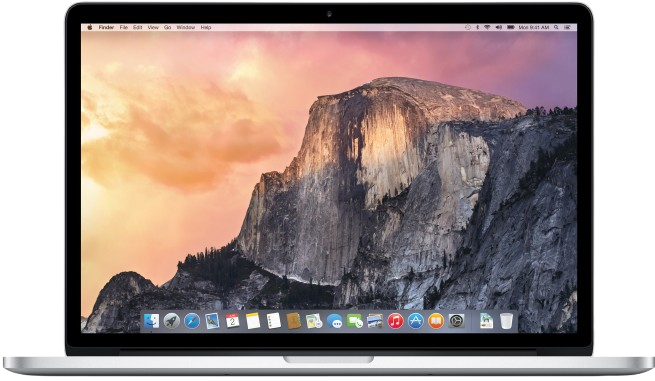
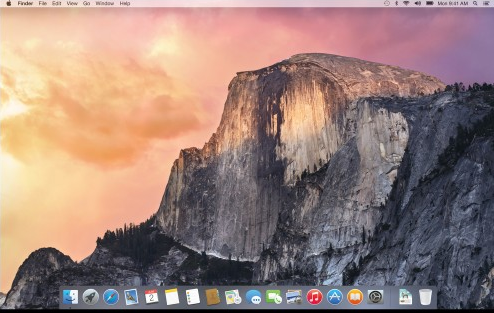
atualizando tela inicial

diff --git a/Inicio.html b/Inicio.html
@@ -9,6 +9,8 @@
     <link
         href="https://fonts.googleapis.com/css2?family=Inter:ital,opsz,wght@0,14..32,100..900;1,14..32,100..900&display=swap"
         rel="stylesheet">
+    <link rel="stylesheet" href="https://cdnjs.cloudflare.com/ajax/libs/font-awesome/6.0.0-beta3/css/all.min.css">
+
     <link rel="stylesheet" href="Inicio.css">
 
     <title>Inicio</title>
@@ -151,66 +153,69 @@
                         <th>Linux</th>
                     </tr>
                 </thead>
-         <tbody>
-                <tr>
-                    <td class="coluna-negrito">Desenvolvedor</td>
-                    <td>Apple</td>
-                    <td>Microsoft</td>
-                    <td>Comunidade Open Source</td>
-                </tr>
-                <tr>
-                    <td class="coluna-negrito">Licenciamento</td>
-                    <td>Proprietário</td>
-                    <td>Proprietário</td>
-                    <td>Open Source</td>
-                </tr>
-                <tr>
-                    <td class="coluna-negrito">Interface Gráfica</td>
-                    <td>macOS UI (Aqua)</td>
-                    <td>Windows GUI</td>
-                    <td>Varia (GNOME, KDE, XFCE, etc.)</td>
-                </tr>
-                <tr>
-                    <td class="coluna-negrito">Compatibilidade de Software</td>
-                    <td>Forte para software criativo (design, edição de vídeo)</td>
-                    <td>Grande compatibilidade, especialmente com software empresarial e jogos</td>
-                    <td>Varia conforme a distribuição, compatível com software de desenvolvimento e servidores
-                    </td>
-                </tr>
-                <tr>
-                    <td class="coluna-negrito">Segurança</td>
-                    <td>Considerado seguro, base Unix</td>
-                    <td>Vulnerável a malwares, mas com muitas soluções de segurança</td>
-                    <td>Considerado seguro, baseado em Unix, código aberto facilita correções rápidas</td>
-                </tr>
-                <tr>
-                    <td class="coluna-negrito">Customização</td>
-                    <td>Limitada, interface fechada</td>
-                    <td>Moderada, opções de personalização de interface e configuração</td>
-                    <td>Altamente customizável</td>
-                </tr>
-                <tr>
-                    <td class="coluna-negrito">Suporte a Hardware</td>
-                    <td>Suporte oficial apenas para hardware Apple</td>
-                    <td>Compatível com a maioria do hardware de mercado</td>
-                    <td>Compatível com uma ampla gama de hardware</td>
-                </tr>
-                <tr>
-                    <td class="coluna-negrito">Mercado Alvo</td>
-                    <td>Usuários criativos, designers, editores de vídeo</td>
-                    <td>Usuários gerais, empresas e gamers</td>
-                    <td>Desenvolvedores, servidores, usuários que preferem customização</td>
-                </tr>
-            </tbody>
+                <tbody>
+                    <tr>
+                        <td class="coluna-negrito">Desenvolvedor</td>
+                        <td>Apple</td>
+                        <td>Microsoft</td>
+                        <td>Comunidade Open Source</td>
+                    </tr>
+                    <tr>
+                        <td class="coluna-negrito">Licenciamento</td>
+                        <td>Proprietário</td>
+                        <td>Proprietário</td>
+                        <td>Open Source</td>
+                    </tr>
+                    <tr>
+                        <td class="coluna-negrito">Interface Gráfica</td>
+                        <td>macOS UI (Aqua)</td>
+                        <td>Windows GUI</td>
+                        <td>Varia (GNOME, KDE, XFCE, etc.)</td>
+                    </tr>
+                    <tr>
+                        <td class="coluna-negrito">Compatibilidade de Software</td>
+                        <td>Forte para software criativo (design, edição de vídeo)</td>
+                        <td>Grande compatibilidade, especialmente com software empresarial e jogos</td>
+                        <td>Varia conforme a distribuição, compatível com software de desenvolvimento e servidores
+                        </td>
+                    </tr>
+                    <tr>
+                        <td class="coluna-negrito">Segurança</td>
+                        <td>Considerado seguro, base Unix</td>
+                        <td>Vulnerável a malwares, mas com muitas soluções de segurança</td>
+                        <td>Considerado seguro, baseado em Unix, código aberto facilita correções rápidas</td>
+                    </tr>
+                    <tr>
+                        <td class="coluna-negrito">Customização</td>
+                        <td>Limitada, interface fechada</td>
+                        <td>Moderada, opções de personalização de interface e configuração</td>
+                        <td>Altamente customizável</td>
+                    </tr>
+                    <tr>
+                        <td class="coluna-negrito">Suporte a Hardware</td>
+                        <td>Suporte oficial apenas para hardware Apple</td>
+                        <td>Compatível com a maioria do hardware de mercado</td>
+                        <td>Compatível com uma ampla gama de hardware</td>
+                    </tr>
+                    <tr>
+                        <td class="coluna-negrito">Mercado Alvo</td>
+                        <td>Usuários criativos, designers, editores de vídeo</td>
+                        <td>Usuários gerais, empresas e gamers</td>
+                        <td>Desenvolvedores, servidores, usuários que preferem customização</td>
+                    </tr>
+                </tbody>
             </table>
 
             <hr>
 
-            <div>
-                <div>
-                    <h3>Comparando os sistema operacionais para Desktop</h3>
-                    <img src="IMG/tela windows.png" alt="tela janela do windows area de trabalho" id="windows">
+            <div class="caixa-vantagens-desvantagens">
+                <h3>Comparando os sistema operacionais para Desktop</h3>
 
+                <div class="vant-desv">
+                    <div class="imagem-download">
+                        <img src="IMG/tela windows.webp" alt="tela janela do windows area de trabalho" id="windows">
+                        <a href="#baixarwindows" class="baixe">saiba mais</a>
+                    </div>
                     <ul>
                         <h3>VANTAGENS</h3>
                         <li>Grande compatibilidade de software, especialmente com jogos e programas
@@ -226,9 +231,14 @@
                         <li>Custo elevado, especialmente para versões profissionais e empresariais.</li>
                         <li>Menor customização em comparação com sistemas como Linux.</li>
                     </ul>
+
                 </div>
-                <div>
-                    <img src="IMG/tela macos.png" alt="tela do macOS area de trabalho" id="macos">
+                <br>
+                <div class="vant-desv">
+                    <div class="imagem-download">
+                        <img src="IMG/tela macos.jpg" alt="tela do macOS area de trabalho" id="macos">
+                        <a href="#baixarwindows" class="baixe">saiba mais</a>
+                    </div>
 
                     <ul>
                         <h3>VANTAGENS</h3>
@@ -248,8 +258,13 @@
                             Windows.</li>
                     </ul>
                 </div>
-                <div>
-                    <img src="./IMG/tela linux.png" alt="tela do linux area de trabalho" id="linux">
+                <br>
+                <div class="vant-desv">
+                    <div class="imagem-download">
+                        <img src="./IMG/tela linux.png" alt="tela do linux area de trabalho" id="linux">
+                        <a href="#baixarwindows" class="baixe">saiba mais</a>
+                    </div>
+
                     <ul>
                         <h3>VANTAGENS</h3>
                         <li>É open source e gratuito, permitindo modificações e adaptações por parte dos
@@ -274,8 +289,13 @@
                     </ul>
 
                 </div>
-                <div>
-                    <img src="./IMG/tela android.png" alt="tela do android principal" id="android">
+                <br>
+                <div class="vant-desv">
+                    <div class="imagem-download">
+                    <img src="./IMG/tela android" alt="tela do android principal" id="android">
+                    <a href="#baixarwindows" class="baixe">saiba mais</a>
+                </div>
+
                     <ul>
                         <h3>VANTAGENS</h3>
                         <li>Disponível em uma ampla variedade de dispositivos e faixas de preço.</li>
@@ -296,8 +316,13 @@
                         <li>Desempenho inconsistente em dispositivos de hardware mais fraco.</li>
                     </ul>
                 </div>
-                <div>
+                <br>
+                <div class="vant-desv">
+                    <div class="imagem-download">
                     <img src="./IMG/tela ios.png" alt="tela do ios principal" id="ios">
+                    <a href="#baixarwindows" class="baixe">saiba mais</a>
+                </div>
+
                     <ul>
                         <h3>VANTAGENS</h3>
                         <li>Sistema operacional altamente otimizado para o hardware, garantindo desempenho
@@ -324,22 +349,25 @@
         </main>
 
 
-   
+
     </div>
+
     <footer>
         <img src="./IMG/logo.png" alt="logo sysops">
-        &copy; SYSCOPS
 
-        <div>
+        <h4>Direitos reservados para &copy; SYSOPS</h4>
+
+        <div class="icones">
             <a href=""><i class="fa-brands fa-facebook"></i></a>
             <a href=""><i class="fa-brands fa-instagram"></i></a>
             <a href=""><i class="fa-brands fa-twitter"></i></a>
             <a href=""><i class="fa-brands fa-google-plus"></i></a>
             <a href=""><i class="fa-brands fa-youtube"></i></a>
         </div>
-        <a href="#inicio">
-            <img src="./IMG/inicio.png" alt="">
-        </a>
+
+
+        <a href="#inicio"><i class="fas fa-arrow-up"></i></a>
+
     </footer>
 </body>
 

diff --git a/Inicio.css b/Inicio.css
@@ -5,7 +5,9 @@
   --cinza-escuro: #2d3250;
   --dourado: #f9b17a;
 }
-
+ul{
+  margin: 0%;
+}
 body {
 
   margin: 0%;
@@ -19,6 +21,7 @@ body {
   font-family: "Inter", sans-serif;
   font-optical-sizing: auto;
   font-style: normal;
+  overflow-x: hidden !important;
 }
 
 nav a {
@@ -68,7 +71,7 @@ header {
 
 nav {
   width: 70%;
-  height: 20%;
+  height: 16%;
   display: flex;
   align-items: center;
   justify-content: space-evenly;
@@ -80,7 +83,6 @@ nav {
 
 a {
   background-color: transparent;
-
 }
 
 aside {
@@ -98,17 +100,17 @@ main {
 }
 
 .corpo {
-  width: auto;
+  width: 100%;
   height: 100%;
   display: flex;
+justify-content: center;
   flex-direction: row;
 }
 
 .menu-lateral {
-  margin: 1%;
-  width: 10%;
-  float: left;
-  height: auto;
+  margin: 1% 1% 0% 0%;
+  width: 12%;
+  margin-left: 0px;
   background-color: var(--cinza-escuro);
 }
 
@@ -119,6 +121,7 @@ main {
 
 .conteudo {
   width: 83%;
+  padding: 0%;
 }
 
 .como-funciona {
@@ -131,25 +134,7 @@ main {
   width: 70%;
 }
 
-/*
-.desktop, .moveis , .servidores, .vestiveis{
-  width: 100%;
-  display: flex;
-  justify-content: space-around;
-}
-.titulo-tipos{
-  width: 50%;
-  border-radius: 30px;
-  padding: 1%;
-  background-color: rgba(0, 255, 255, 0.314);
-}
-.caixa-tipos{
-  border: #000 1px solid;
-  padding: 1%;
-  margin-bottom: 1%;
-} */
 
-/* Estilo da Caixa Principal */
 
 .caixa-tipos-de-sistemas {
   display: flex;
@@ -221,3 +206,59 @@ thead {
 .coluna-negrito{
 font-weight: bold;
 }
+
+#windows, #macos,#android, #linux, #ios{
+border-radius: 5%;
+border: 5px var(--dourado) solid;
+}
+
+#macos, #windows, #linux{
+height: 55vh;
+}
+
+#android, #ios{
+  height: 75vh;
+}
+
+.vant-desv{
+  display: flex;
+}
+.texto-vant-desv{
+background-color: aqua;
+}
+
+footer{
+  width: 100%;
+  display: flex;
+  flex-direction: row;
+  justify-content: space-evenly;
+  color: #fff;
+  padding: 2%;
+  align-items: center;
+  background-color: var(--cinza-escuro);
+}
+i{
+  color: #f9b17a;
+}
+.icones{
+  display: flex;
+  width: 20%;
+  flex-direction: row;
+justify-content: space-evenly;
+}
+
+.imagem-download{
+  display: flex;
+  flex-wrap: wrap;
+  justify-content: center;
+}
+.imagem-download a{
+  color: var(--dourado);
+  text-decoration: none;
+  padding: 10px;
+  transition: all 0.3s ease;
+}
+.imagem-download a:hover{
+    color: var(--dourado);
+    border-bottom: 2px solid var(--dourado);
+  }
